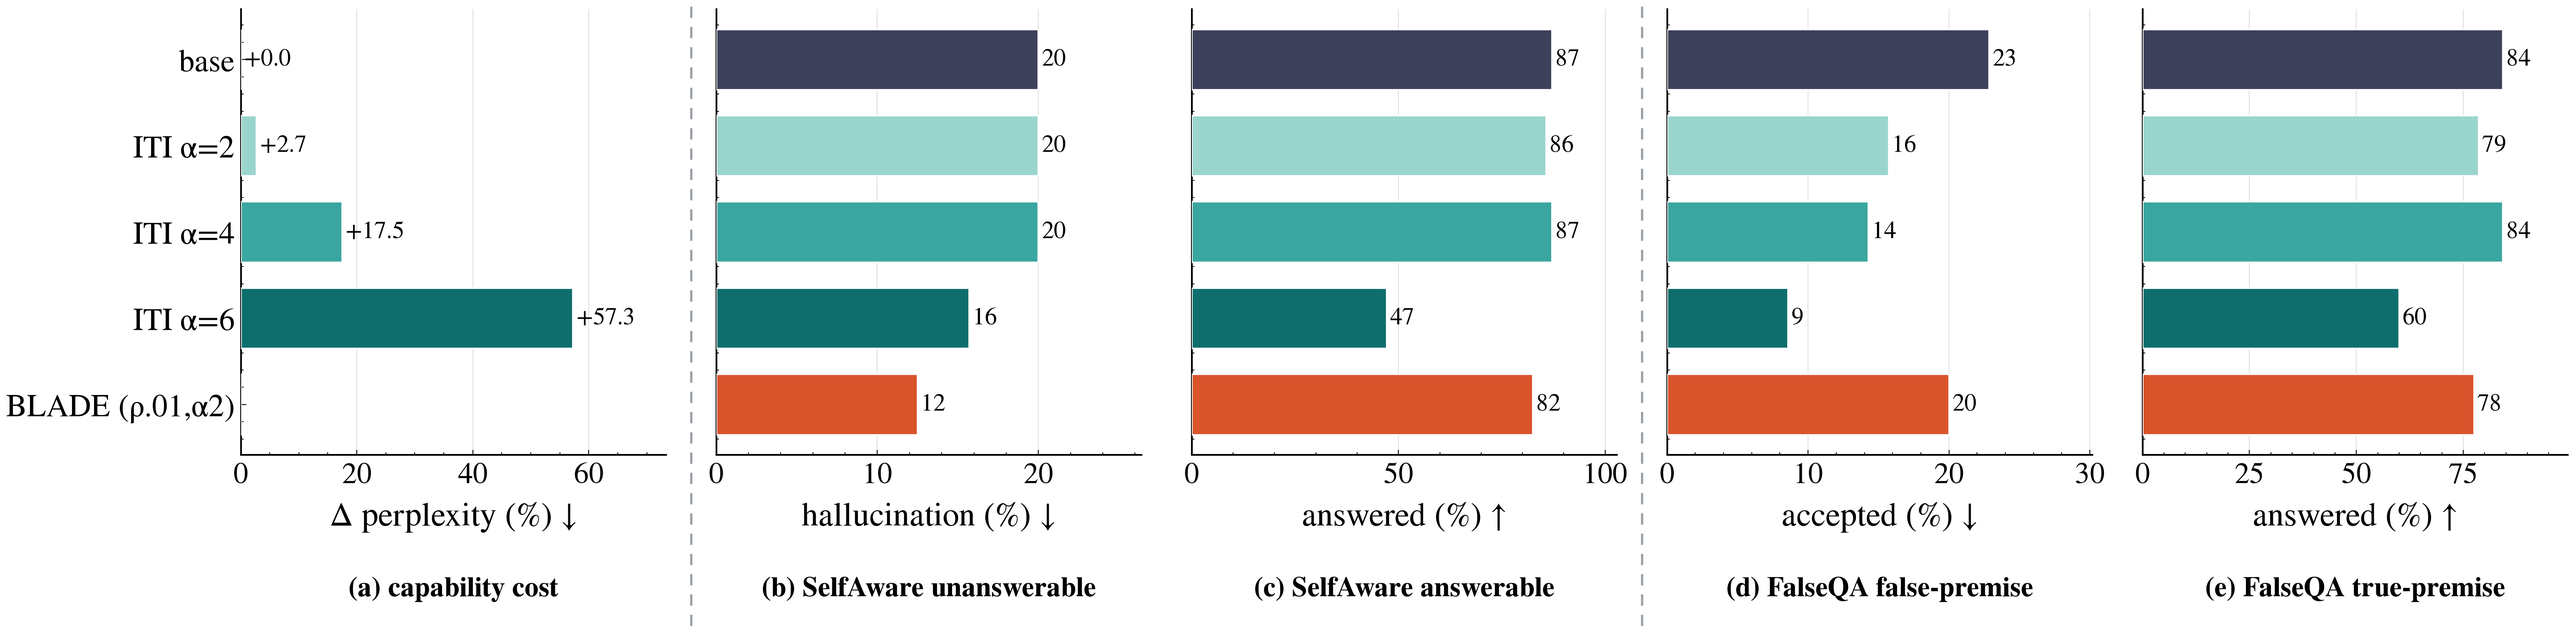
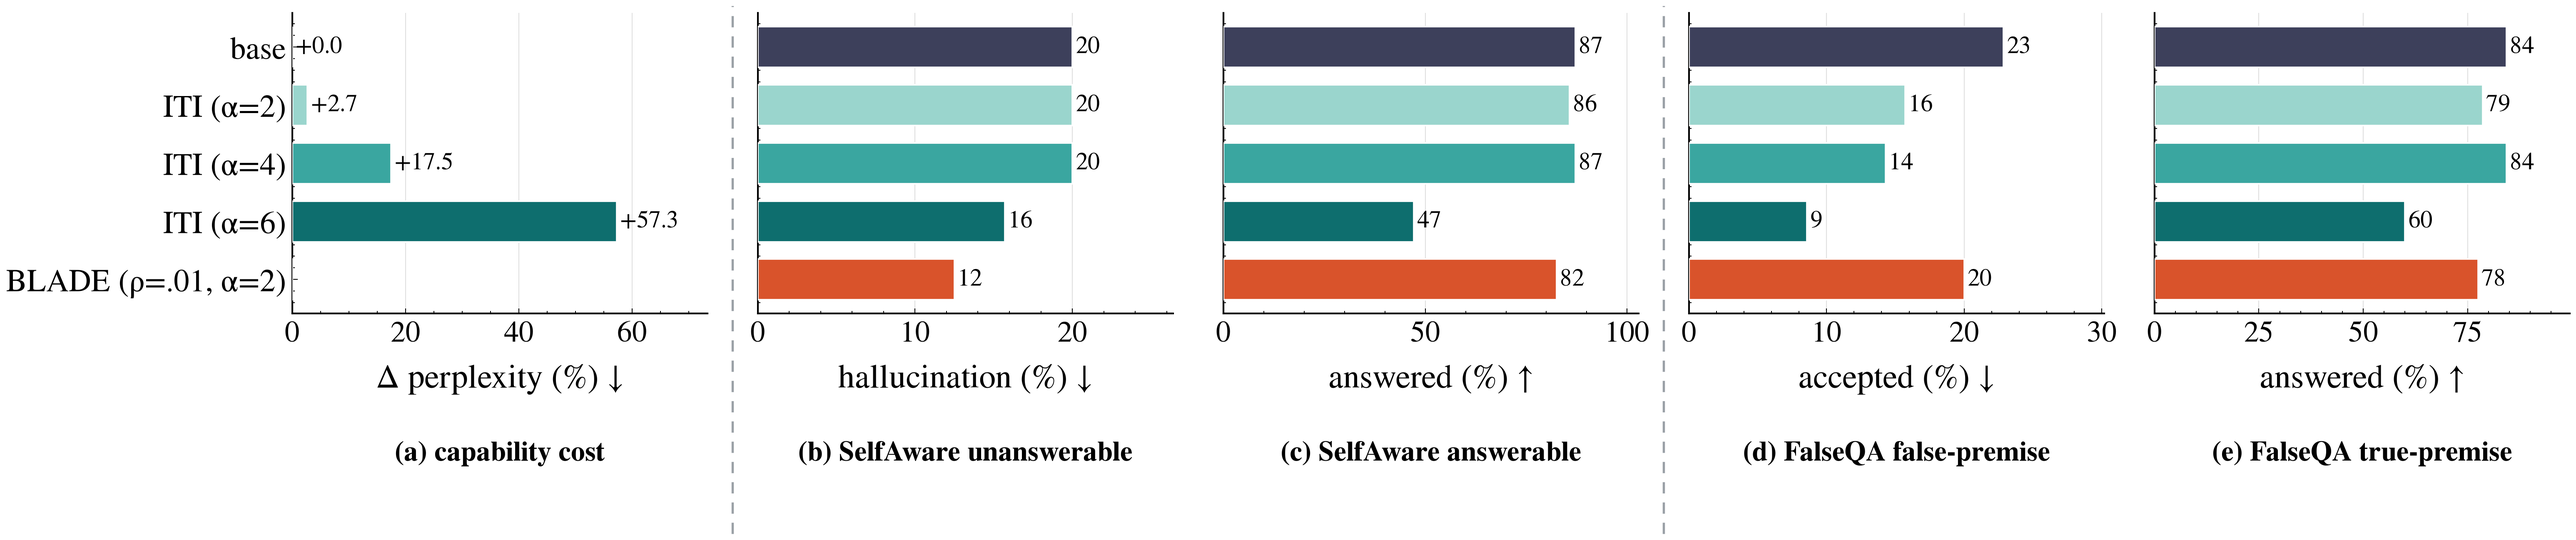
uncertainty_method_cmp: labels ITI (a=N) + BLADE (rho=.01, a=2) with parens/equals; more spacing (x-title vs subtitle), less crowding

diff --git a/scripts/plot_method_comparison.py b/scripts/plot_method_comparison.py
@@ -43,9 +43,9 @@ def rate(ds, gold, cond, acts=("answer",)):
 
 # Tuned, NON-degenerate operating points (from the fixed-L* ρ×α sweep). BLADE remove=α0, amp=α2.
 METHODS = [("base", "base", "#3D405B"),
-           ("ITI α=2", "iti_a2.0", "#9AD5CD"), ("ITI α=4", "iti_a4.0", "#3AA6A0"),
-           ("ITI α=6", "iti_a6.0", "#0E6E6E"),
-           ("BLADE (ρ.01,α2)", "r0.01_a2.0", "#D9532B")]
+           ("ITI (α=2)", "iti_a2.0", "#9AD5CD"), ("ITI (α=4)", "iti_a4.0", "#3AA6A0"),
+           ("ITI (α=6)", "iti_a6.0", "#0E6E6E"),
+           ("BLADE (ρ=.01, α=2)", "r0.01_a2.0", "#D9532B")]
 
 # Δppl (%) per method config for the capability-cost panel
 _iti = json.load(open(R / "iti_ppl.json"))["alpha_ppl_delta"]
@@ -58,7 +58,7 @@ PAN = [("ppl", None, "capability cost", "Δ perplexity (%) ↓", True),
        ("selfaware", "answerable", "SelfAware answerable", "answered (%) ↑", False),
        ("falseqa", "false_premise", "FalseQA false-premise", "accepted (%) ↓", True),
        ("falseqa", "true_premise", "FalseQA true-premise", "answered (%) ↑", False)]
-fig, axes = plt.subplots(1, 5, figsize=(21, 5.4), sharey=True)
+fig, axes = plt.subplots(1, 5, figsize=(21, 4.6), sharey=True)
 for k, (ax, (ds, gold, title, xlab, low)) in enumerate(zip(axes.flat, PAN)):
     if ds == "ppl":
         vals = [PPL[c[1]] for c in METHODS]
@@ -71,8 +71,8 @@ for k, (ax, (ds, gold, title, xlab, low)) in enumerate(zip(axes.flat, PAN)):
         ax.bar_label(b, fmt="%.0f", fontsize=14, padding=2)
         ax.set_xlim(0, max([v for v in vals if v == v]) * (1.32 if low else 1.18))
     ax.set_yticks(y); ax.set_yticklabels(labs); ax.invert_yaxis()
-    ax.set_xlabel(xlab, labelpad=6)                                   # metric = x-axis title
-    ax.text(0.5, -0.27, f"({chr(97+k)}) {title}", transform=ax.transAxes,   # panel subtitle below
+    ax.set_xlabel(xlab, labelpad=8)                                   # metric = x-axis title
+    ax.text(0.5, -0.42, f"({chr(97+k)}) {title}", transform=ax.transAxes,   # panel subtitle below
             ha="center", va="top", fontsize=16, fontweight="bold")
     ax.xaxis.grid(True, ls="-", lw=0.5, color="#DFDFDF", zorder=0); ax.set_axisbelow(True)
     ax.spines[["top", "right"]].set_visible(False)
